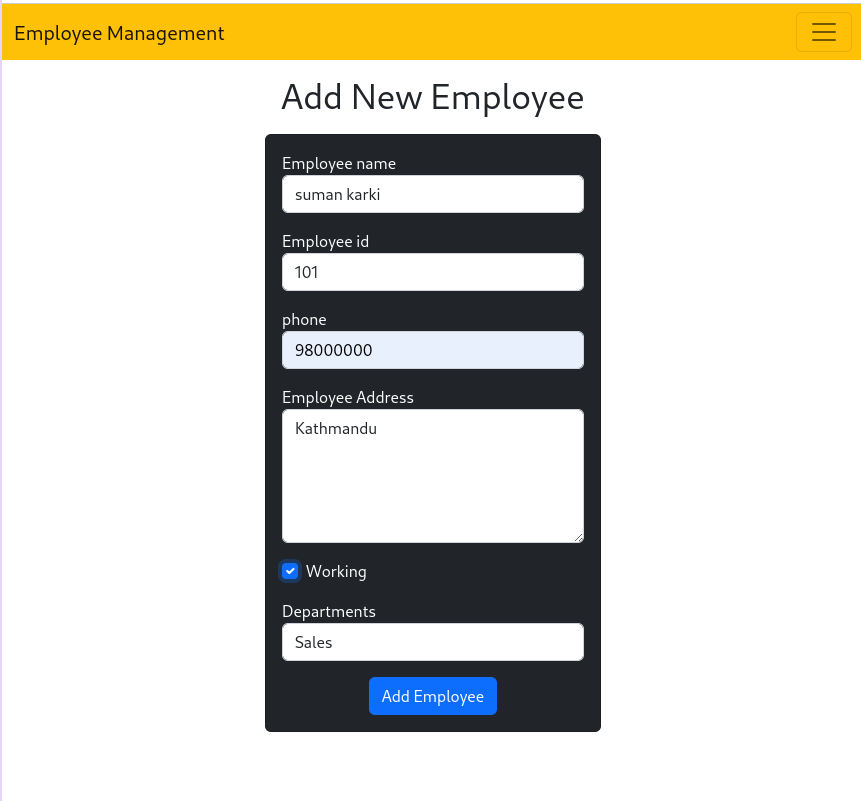
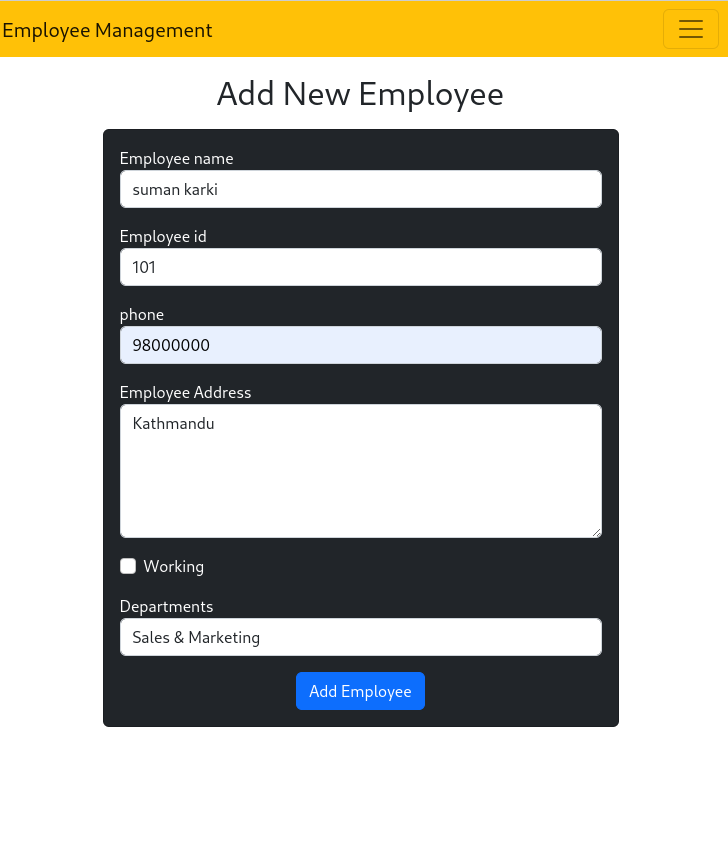
update readme

diff --git a/templates/emp/add_emp.html b/templates/emp/add_emp.html
@@ -71,9 +71,9 @@
                 <div class="mb-3 ">
                   <label for="department">Departments</label>
                   <select name="emp_department" id="department" class="form-control">
-                      <option value="CSE">Sales</option>
-                      <option value="ME">Engineering</option>
-                      <option value="EE">HR, Finance and Operation</option>
+                      <option value="Sales & Marketing">Sales & Marketing</option>
+                      <option value="Engineering">Engineering</option>
+                      <option value="HR, Finance & Operation">HR, Finance & Operation</option>
                   </select>
                 </div>
                 <div class="container text-center">

diff --git a/templates/home.html b/templates/home.html
@@ -71,9 +71,9 @@
                 <div class="mb-3 ">
                   <label for="department">Departments</label>
                   <select name="emp_department" id="department" class="form-control">
-                      <option value="CSE">Sales</option>
-                      <option value="ME">Engineering</option>
-                      <option value="EE">HR, Finance and Operation</option>
+                      <option value="Sales & marketing">Sales & Marketing</option>
+                      <option value="Engineering">Engineering</option>
+                      <option value="HR, Finance & Operation">HR, Finance & Operation</option>
                   </select>
                 </div>
                 <div class="container text-center">

diff --git a/templates/emp/navbar.html b/templates/emp/navbar.html
@@ -17,7 +17,7 @@
               More
             </a>
             <ul class="dropdown-menu">
-              <li><a class="dropdown-item" href="#">View Employee</a></li>
+              <li><a class="dropdown-item" href="/emp/home/">View Employee</a></li>
               <li><a class="dropdown-item" href="#">About</a></li>
               <li><hr class="dropdown-divider"></li>
               <li><a class="dropdown-item" href="#">Follow</a></li>

diff --git a/README.md b/README.md
@@ -1,5 +1,10 @@
-It's a simple Employee Management project . My motive to create this project is to learn about How database works in Django.
-Here the some sample pic of how its work:-
-/assets/employee_add_sec.png
+It's a simple Employee Management project. My motive to create this project is to learn about how a database works in Django. Here are some sample pictures of how it works:
 
-Here the tutroal how u can run this app in your system:-
+you can add employee by click add employee .
+
+![Employee Add Section](assets/employee_add_sec.png)
+
+after added employee you will automatically redirect to the list of employee(database)
+
+![Employee Add Section](assets/employee_list.png)
+Here's a tutorial on how you can run this app in your system:
